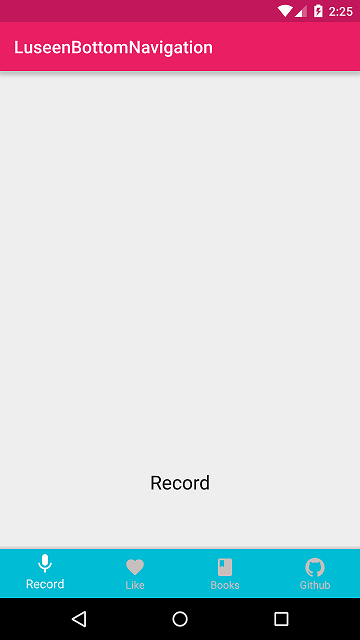
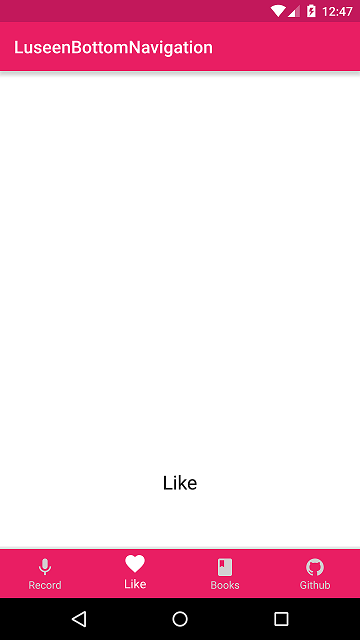
Added withText(true|false) functionality

diff --git a/app/src/main/java/com/luseen/luseenbottomnavigation/BottomNavigation/BottomNavigation.java b/app/src/main/java/com/luseen/luseenbottomnavigation/BottomNavigation/BottomNavigation.java
@@ -4,6 +4,7 @@ import android.animation.Animator;
 import android.animation.AnimatorListenerAdapter;
 import android.content.Context;
 import android.os.Build;
+import android.support.annotation.Nullable;
 import android.support.v4.content.ContextCompat;
 import android.util.AttributeSet;
 import android.util.Log;
@@ -34,6 +35,8 @@ public class BottomNavigation extends FrameLayout {
     private int itemHeight;
     private int currentItem = 0;
     private View backgroundColorTemp;
+    private boolean withText = true;
+
     //View view;
 
     private List<BottomNavigationItem> bottomNavigationItems = new ArrayList<>();
@@ -89,26 +92,31 @@ public class BottomNavigation extends FrameLayout {
 
         for (int i = 0; i < bottomNavigationItems.size(); i++) {
             final int index = i;
+            int textActivePaddingTop = (int) context.getResources().getDimension(R.dimen.bottom_navigation_padding_top_active);
+            int viewInactivePaddingTop = (int) context.getResources().getDimension(R.dimen.bottom_navigation_padding_top_inactive);
+            int viewInactivePaddingTopWithoutText = (int) context.getResources().getDimension(R.dimen.bottom_navigation_padding_top_inactive_without_text);
             final View view = inflater.inflate(R.layout.bottom_navigation, this, false);
             ImageView icon = (ImageView) view.findViewById(R.id.bottom_navigation_item_icon);
             TextView title = (TextView) view.findViewById(R.id.bottom_navigation_item_title);
+
             viewList.add(view);
             if (i == currentItem) {
-                int textActivePaddingTop = (int) context.getResources().getDimension(R.dimen.bottom_navigation_padding_top_active);
                 setBackgroundColor(bottomNavigationItems.get(index).getColor());
-                view.setPadding(view.getPaddingLeft(), textActivePaddingTop, view.getPaddingRight(),
-                        view.getPaddingBottom());
-                title.setTextSize(TypedValue.COMPLEX_UNIT_PX, currentItem == i ?
-                        context.getResources().getDimension(R.dimen.bottom_navigation_text_size_active) :
-                        context.getResources().getDimension(R.dimen.bottom_navigation_text_size_inactive));
                 title.setTextColor(currentItem == i ?
                         getResources().getColor(R.color.colorActive) :
                         getResources().getColor(R.color.colorInactive));
             }
+            view.setPadding(view.getPaddingLeft(),i == 0 ?textActivePaddingTop: withText? viewInactivePaddingTop:viewInactivePaddingTopWithoutText, view.getPaddingRight(),
+                    view.getPaddingBottom());
             icon.setImageResource(bottomNavigationItems.get(i).getImageResource());
             icon.setColorFilter(ContextCompat.getColor(context, i == 0 ? R.color.colorActive : R.color.colorInactive));
-            icon.setScaleX((float) 1.1);
-            icon.setScaleY((float) 1.1);
+            if (i == 0) {
+                icon.setScaleX((float) 1.1);
+                icon.setScaleY((float) 1.1);
+            }
+            title.setTextSize(TypedValue.COMPLEX_UNIT_PX, currentItem == i ?
+                    context.getResources().getDimension(R.dimen.bottom_navigation_text_size_active) :
+                    withText? context.getResources().getDimension(R.dimen.bottom_navigation_text_size_inactive):0);
             title.setText(bottomNavigationItems.get(i).getTitle());
             LayoutParams itemParams = new LayoutParams(itemWidth, itemHeight);
             items.addView(view, itemParams);
@@ -126,7 +134,9 @@ public class BottomNavigation extends FrameLayout {
         bottomNavigationItems.add(item);
     }
 
-
+    public void isWithText(boolean withText) {
+        this.withText = withText;
+    }
 
     private void onBottomNavigationItemClick(final int itemIndex) {
         if (currentItem == itemIndex) {
@@ -135,6 +145,7 @@ public class BottomNavigation extends FrameLayout {
 
         int viewActivePaddingTop = (int) context.getResources().getDimension(R.dimen.bottom_navigation_padding_top_active);
         int viewInactivePaddingTop = (int) context.getResources().getDimension(R.dimen.bottom_navigation_padding_top_inactive);
+        int viewInactivePaddingTopWithoutText = (int) context.getResources().getDimension(R.dimen.bottom_navigation_padding_top_inactive_without_text);
         float textActiveSize = context.getResources().getDimension(R.dimen.bottom_navigation_text_size_active);
         float textInactiveSize = context.getResources().getDimension(R.dimen.bottom_navigation_text_size_inactive);
         int itemActiveColor = ContextCompat.getColor(context, R.color.colorActive);
@@ -145,9 +156,9 @@ public class BottomNavigation extends FrameLayout {
                 final TextView title = (TextView) view.findViewById(R.id.bottom_navigation_item_title);
                 final ImageView icon = (ImageView) view.findViewById(R.id.bottom_navigation_item_icon);
                 BottomNavigationUtils.changeTextColor(title, itemInactiveColor, itemActiveColor);
-                BottomNavigationUtils.changeTextSize(title, textInactiveSize, textActiveSize);
+                BottomNavigationUtils.changeTextSize(title, withText ? textInactiveSize : 0, textActiveSize);
                 BottomNavigationUtils.imageColorChange(icon, itemInactiveColor, itemActiveColor);
-                BottomNavigationUtils.changeTopPadding(view, viewInactivePaddingTop, viewActivePaddingTop);
+                BottomNavigationUtils.changeTopPadding(view, withText? viewInactivePaddingTop :viewInactivePaddingTopWithoutText, viewActivePaddingTop);
                 icon.animate()
                         .setDuration(150)
                         .scaleX((float) 1.1)
@@ -176,9 +187,9 @@ public class BottomNavigation extends FrameLayout {
                 final TextView title = (TextView) view.findViewById(R.id.bottom_navigation_item_title);
                 final ImageView icon = (ImageView) view.findViewById(R.id.bottom_navigation_item_icon);
                 BottomNavigationUtils.imageColorChange(icon, itemActiveColor, itemInactiveColor);
-                BottomNavigationUtils.changeTopPadding(view, viewActivePaddingTop, viewInactivePaddingTop);
+                BottomNavigationUtils.changeTopPadding(view, viewActivePaddingTop,withText?viewInactivePaddingTop: viewInactivePaddingTopWithoutText);
                 BottomNavigationUtils.changeTextColor(title, itemActiveColor, itemInactiveColor);
-                BottomNavigationUtils.changeTextSize(title, textActiveSize, textInactiveSize);
+                BottomNavigationUtils.changeTextSize(title, textActiveSize, withText ? textInactiveSize : 0);
                 icon.animate()
                         .setDuration(150)
                         .scaleX(1)

diff --git a/app/src/main/java/com/luseen/luseenbottomnavigation/MainActivity.java b/app/src/main/java/com/luseen/luseenbottomnavigation/MainActivity.java
@@ -18,6 +18,8 @@ public class MainActivity extends AppCompatActivity {
         setContentView(R.layout.activity_main);
         t = (TextView) findViewById(R.id.textView);
         bottomNavigation = (BottomNavigation) findViewById(R.id.bottomNavigation);
+        if (bottomNavigation != null)
+        bottomNavigation.isWithText(false);
 
         BottomNavigationItem bottomNavigationItem = new BottomNavigationItem
                 ("Record", getResources().getColor(R.color.firstColor), R.drawable.ic_mic_black_24dp);
@@ -32,8 +34,6 @@ public class MainActivity extends AppCompatActivity {
         bottomNavigation.addTab(bottomNavigationItem1);
         bottomNavigation.addTab(bottomNavigationItem2);
         bottomNavigation.addTab(bottomNavigationItem3);
-
-        //Test Push
 
         bottomNavigation.setOnBottomNavigationItemClickListener(new BottomNavigation.OnBottomNavigationItemClickListener() {
             @Override

diff --git a/README.md b/README.md
@@ -12,6 +12,7 @@ By [Luseen][2] Technologies
 ![](ScreenShots/screen3.png)
 
 ![](ScreenShots/gifView.gif)
+![](ScreenShots/gifView2.gif)
 
 
 License
